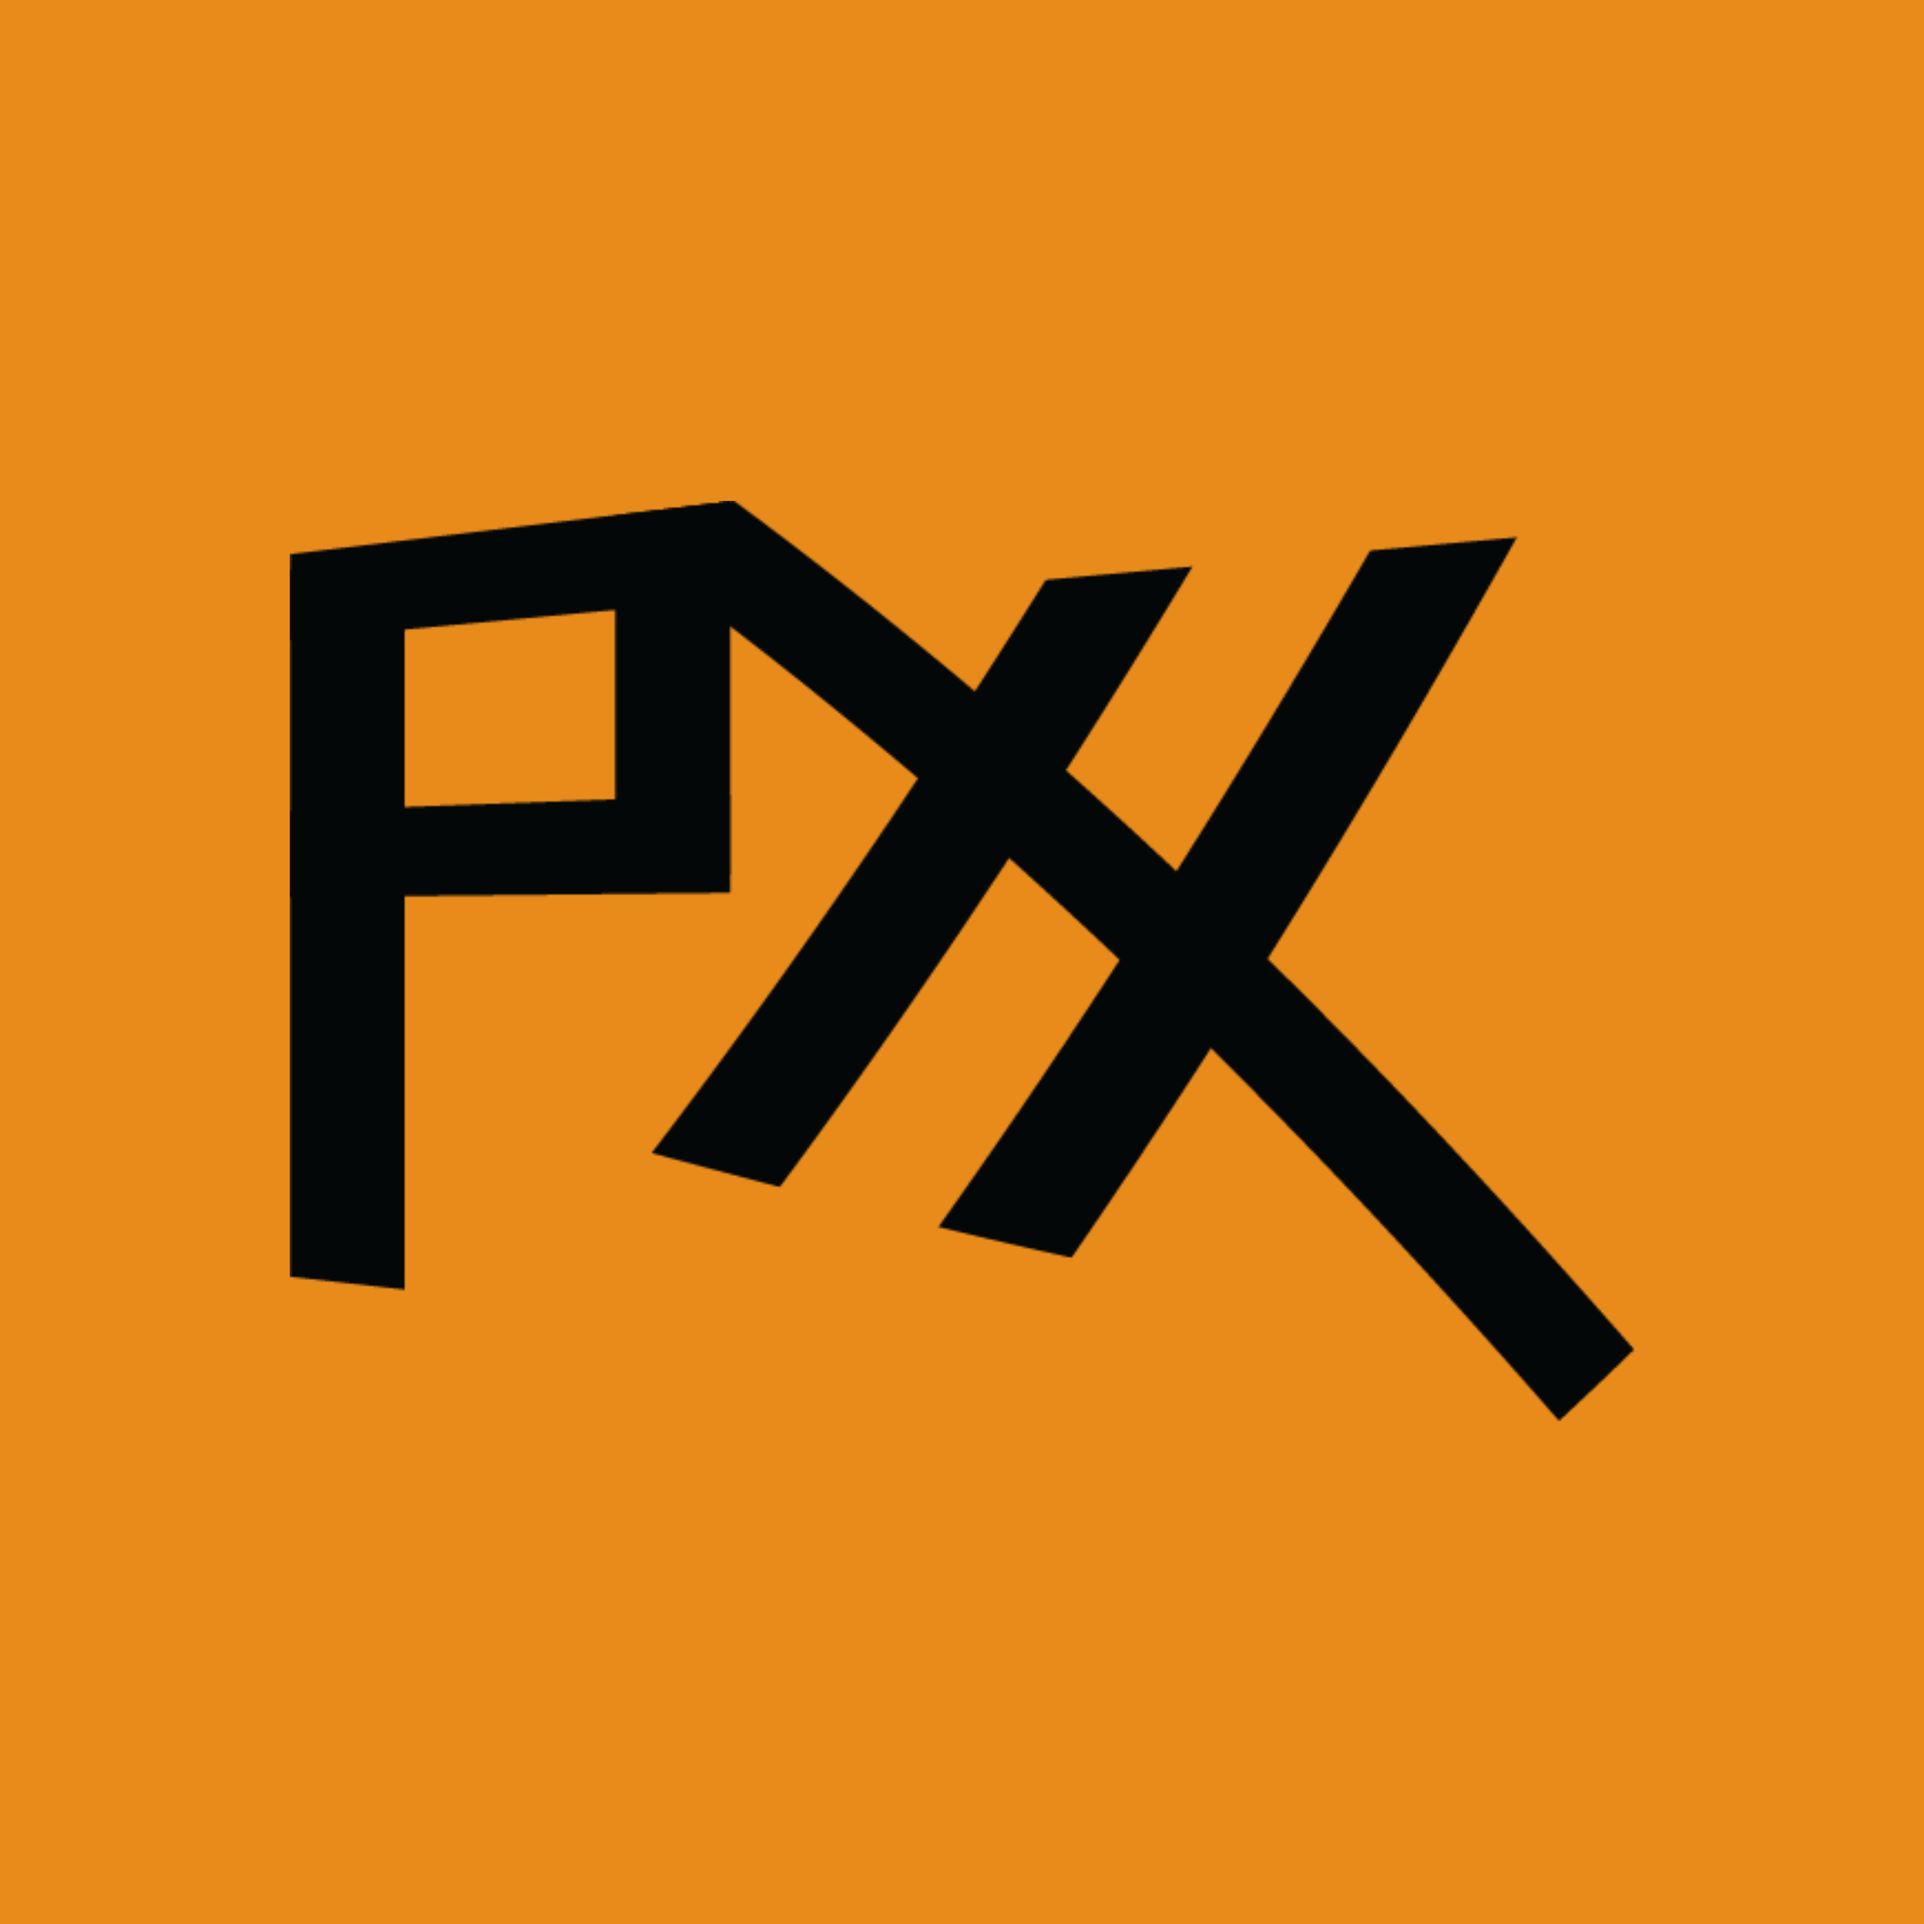
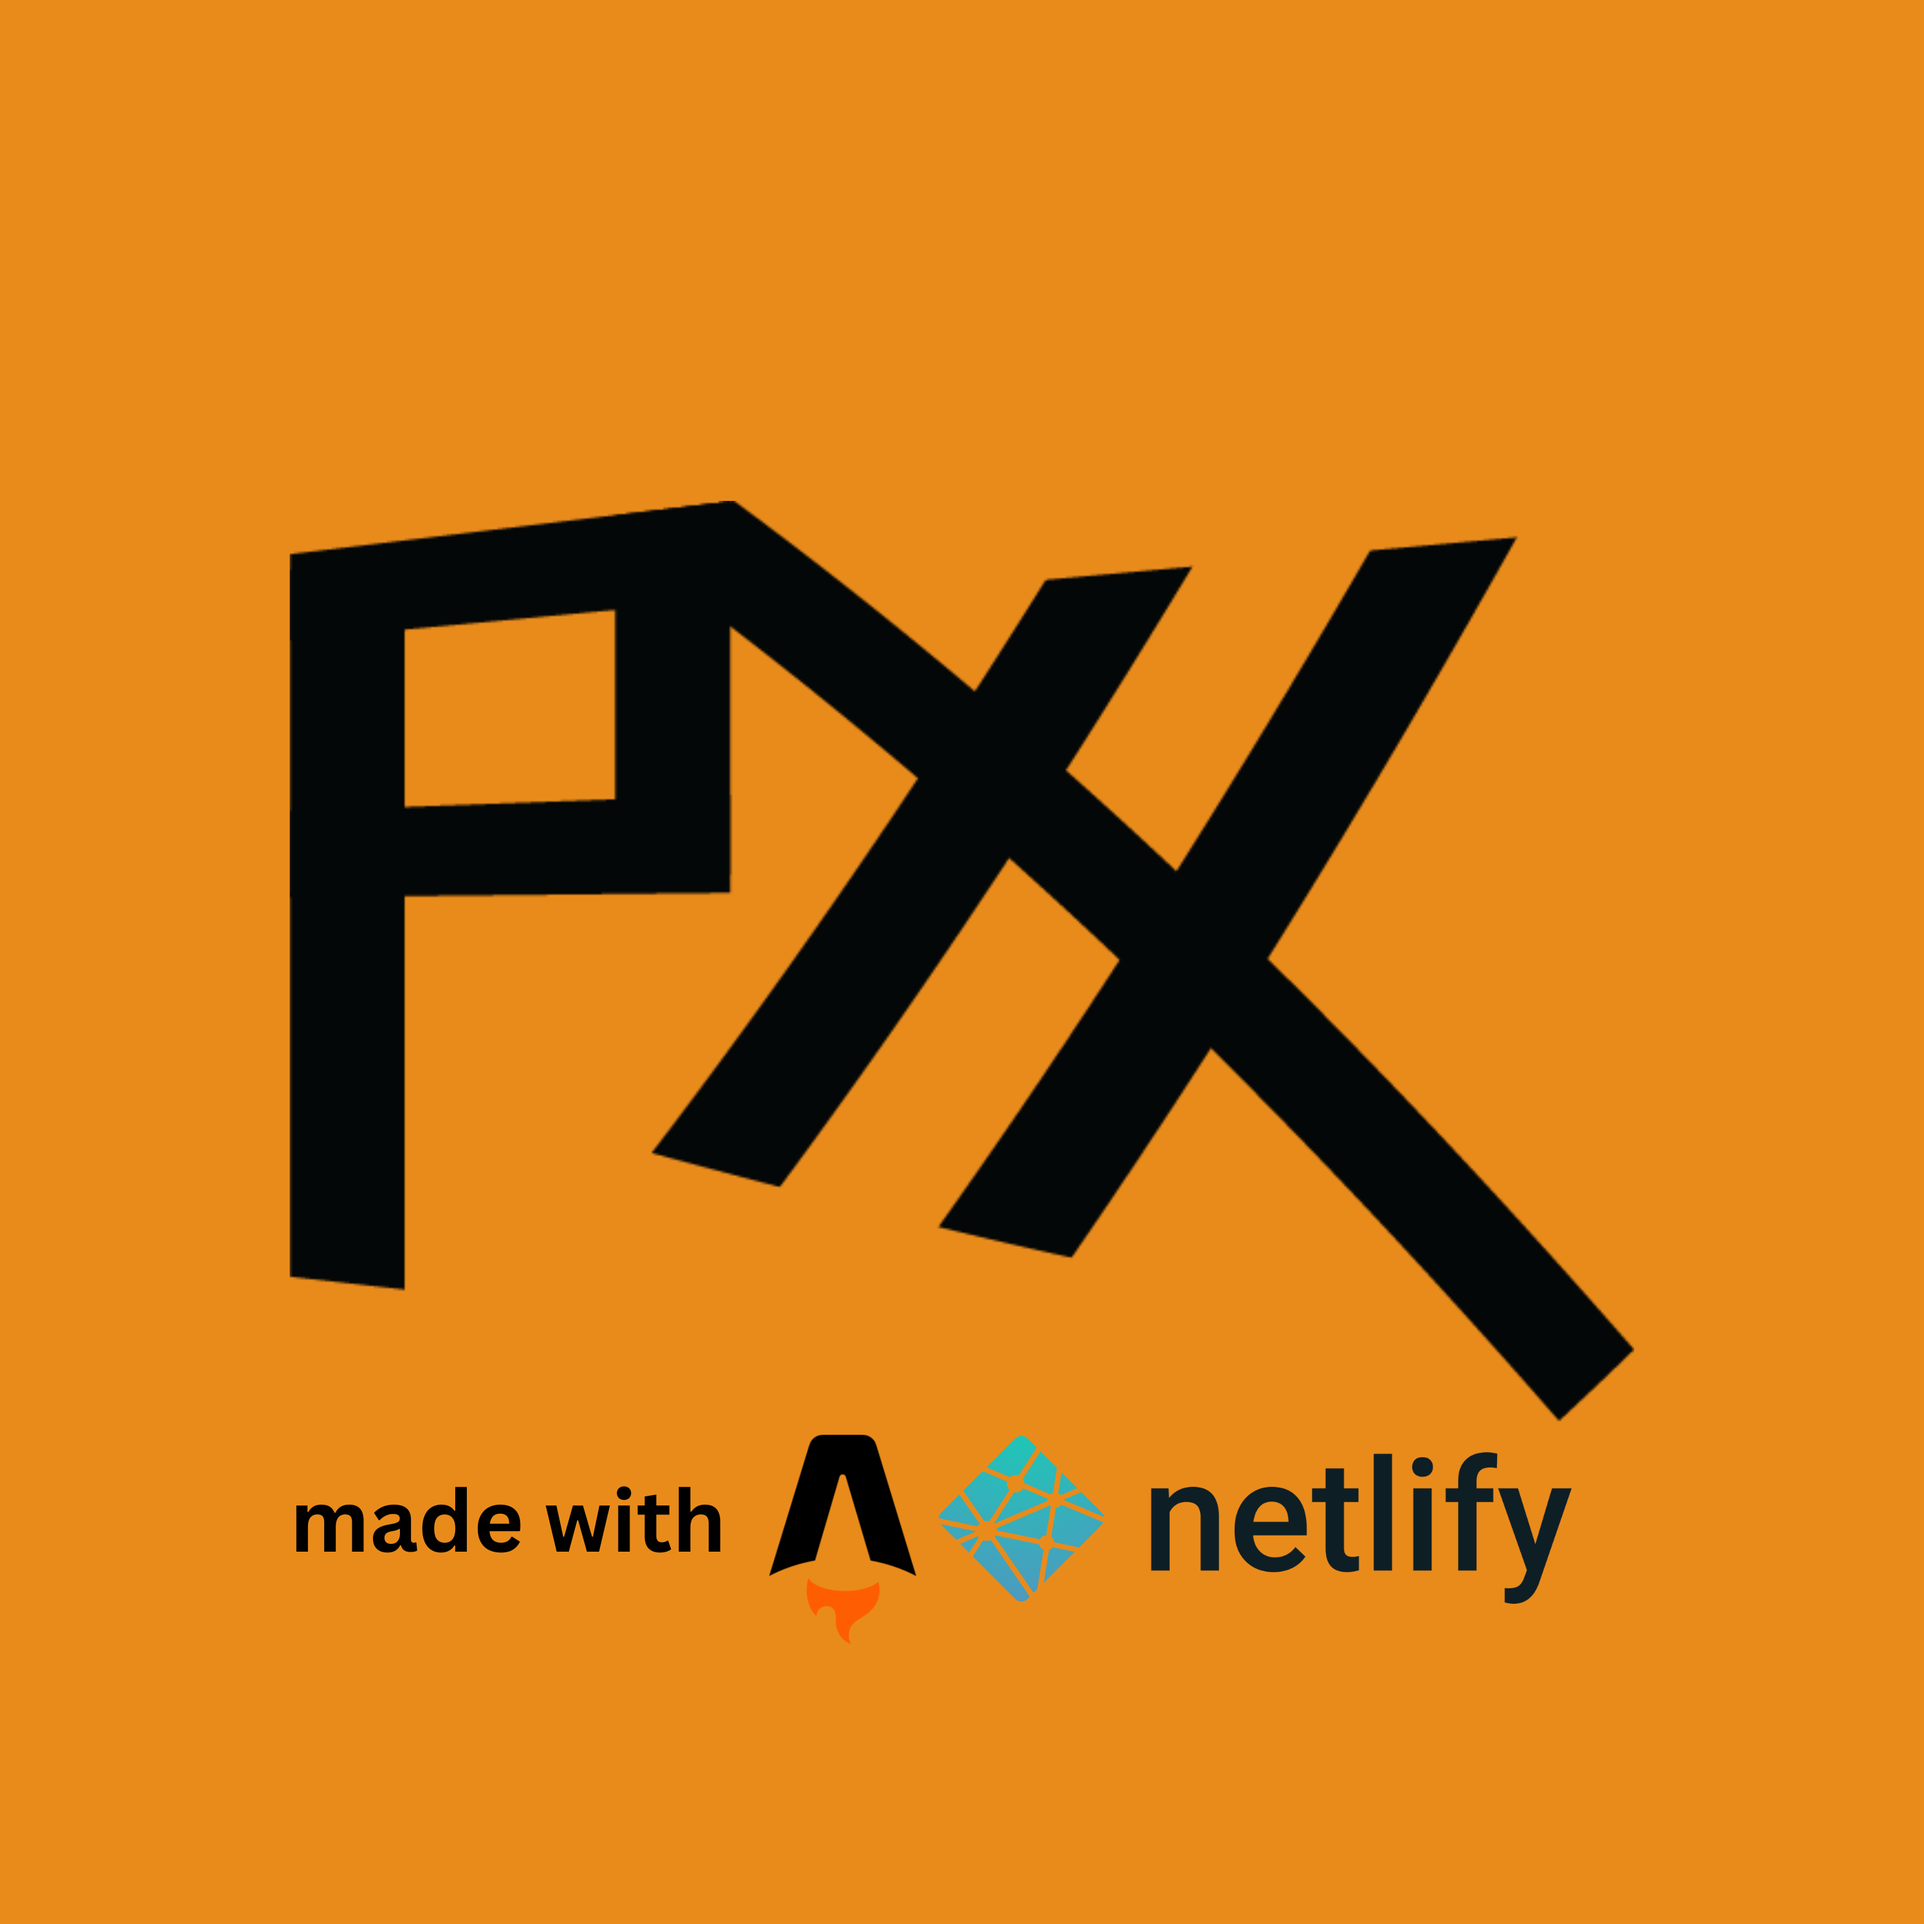
pyx boxing pic updated

Changed region(s): [[0.4041, 0.746, 0.8082, 0.8703], [0.1554, 0.7771, 0.373, 0.8082]]

diff --git a/index.html b/index.html
@@ -806,10 +806,11 @@
             <img src="assets/img/portfolio/PyxBoxing.png" class="img-fluid" alt="">
             <div class="portfolio-info">
               <h4>Pyx Boxing</h4>
-              <p>Re-Engineering boxing equipment for women.</p>
+              <p>Re-Engineering boxing equipment for women. Site developed by myself using Astro and Netlify.</p>
               <div class="portfolio-links">
                 <a href="assets/img/portfolio/PyxBoxing.png" data-gallery="portfolioGallery" class="portfolio-lightbox" title="Pyx Boxing strives to make boxing more equitable for female boxers through our gear and tech integration."><i class="bx bx-plus"></i></a>
-                <a href="https://pyxboxing.com" target="_blank" rel="noopener noreferrer"><i class="bx bx-link"></i></a>
+                <!-- <a href="https://pyxboxing.com" target="_blank" rel="noopener noreferrer"><i class="bx bx-link"></i></a> -->
+                <a href="https://pyxboxing.netlify.app" target="_blank" rel="noopener noreferrer"><i class="bx bx-link"></i></a>
               </div>
             </div>
           </div>
